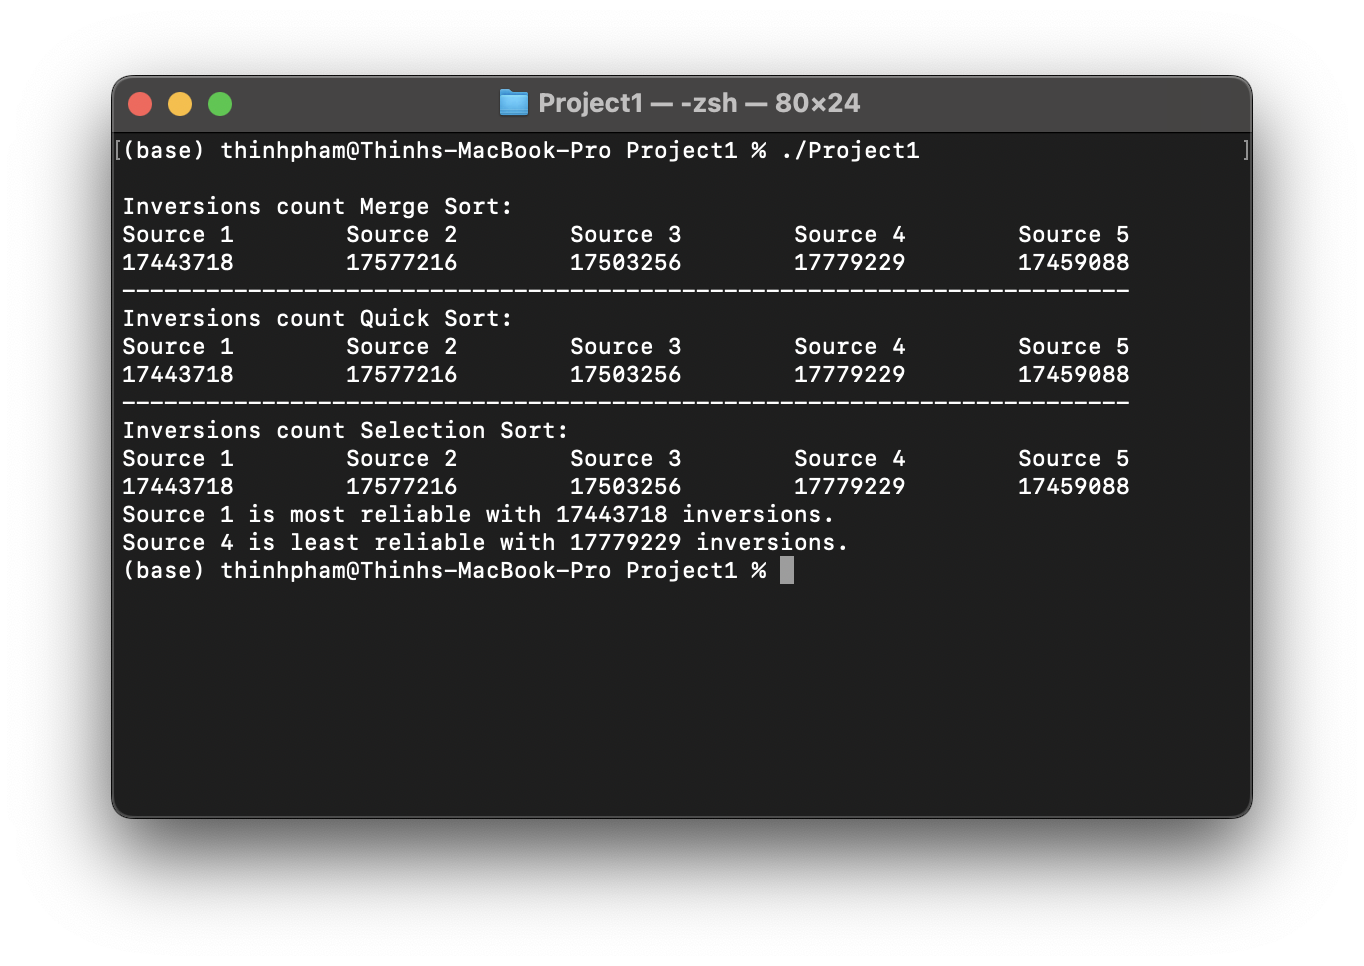
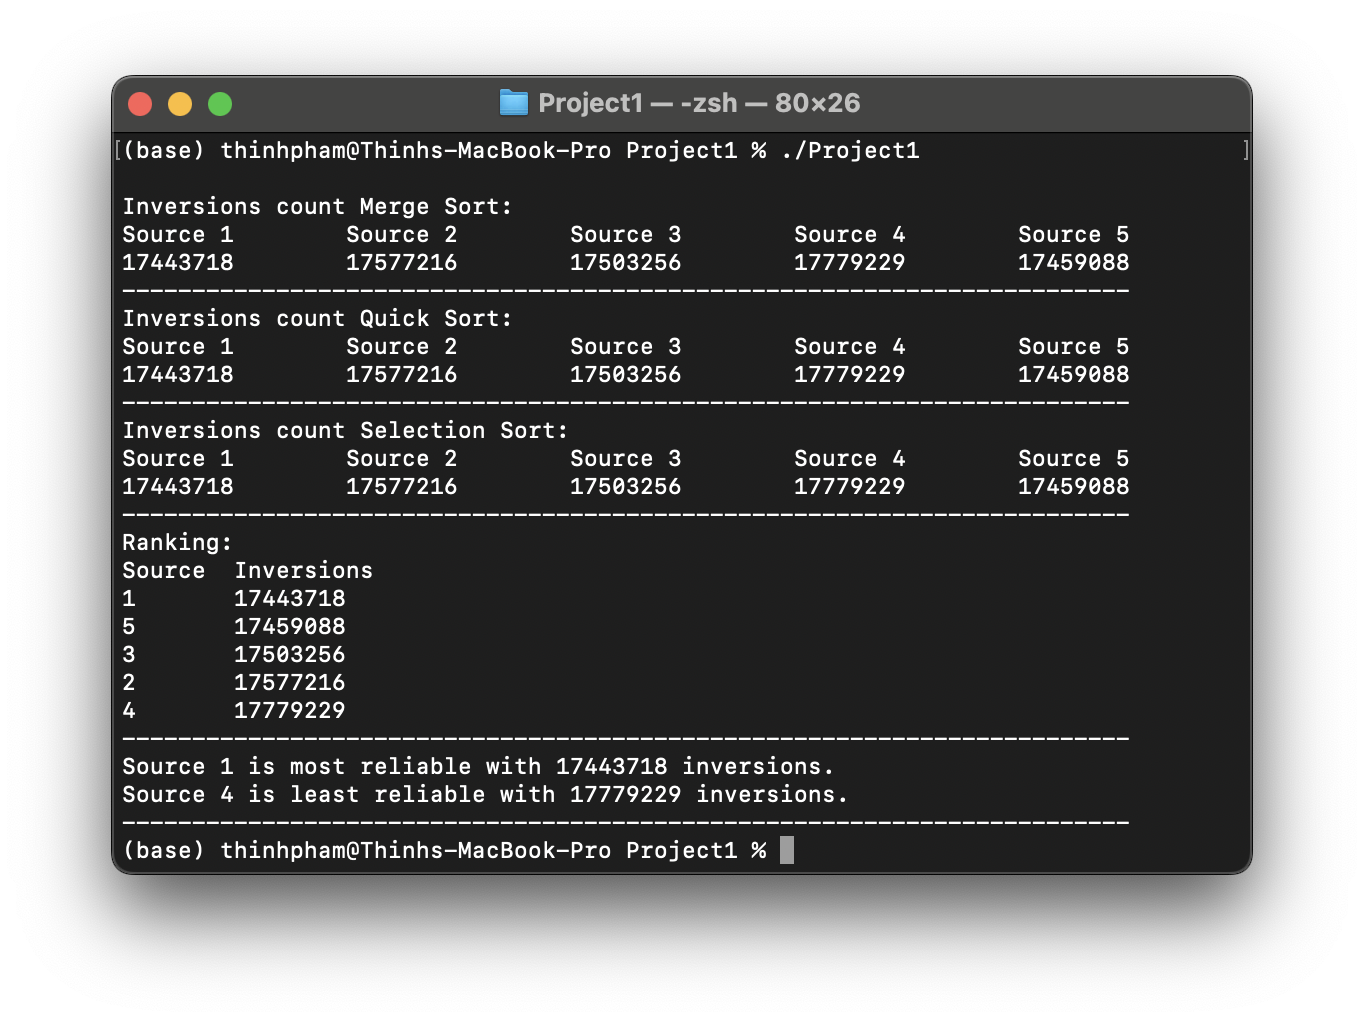
Add files via upload

Changed region(s): [[0.0616, 0.0621, 0.9238, 0.8696], [0.739, 0.4348, 0.8314, 0.528]]

diff --git a/Project1.c b/Project1.c
@@ -120,7 +120,7 @@ int main() {
     for (int i = 0; i < SOURCES; i++) {
         printf("%d \t", ic_ms[i]);
     }
-    printf("\n");
+    printf("\n------------------------------------------------------------------------\n");
 
     // Find best and worse sources by sorting the list
     // The best source is on top and the worst source is bottom
@@ -130,8 +130,14 @@ int main() {
         source_rank[i].v = ic_qs[i];
     }
     struct Element* sorted_ranks = quickSort(source_rank, SOURCES);
+    printf("Ranking:\n");
+    printf("Source\tInversions\n");
+    for (int i = 0; i < SOURCES; i++) {
+        printf("%d\t%d\n", sorted_ranks[i].p+1, sorted_ranks[i].v);
+    }
+    printf("------------------------------------------------------------------------\n");
 
     printf("Source %d is most reliable with %d inversions.\n", sorted_ranks[0].p+1, sorted_ranks[0].v);
     printf("Source %d is least reliable with %d inversions.\n", sorted_ranks[SOURCES-1].p+1, sorted_ranks[SOURCES-1].v);
-
+    printf("------------------------------------------------------------------------\n");
 }
